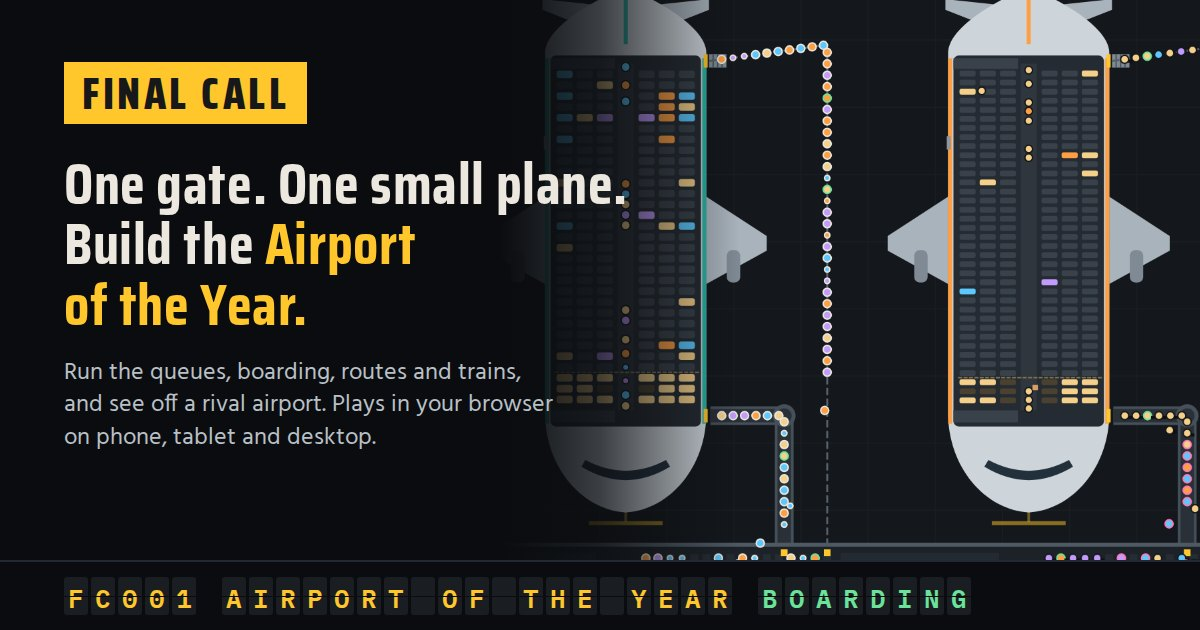
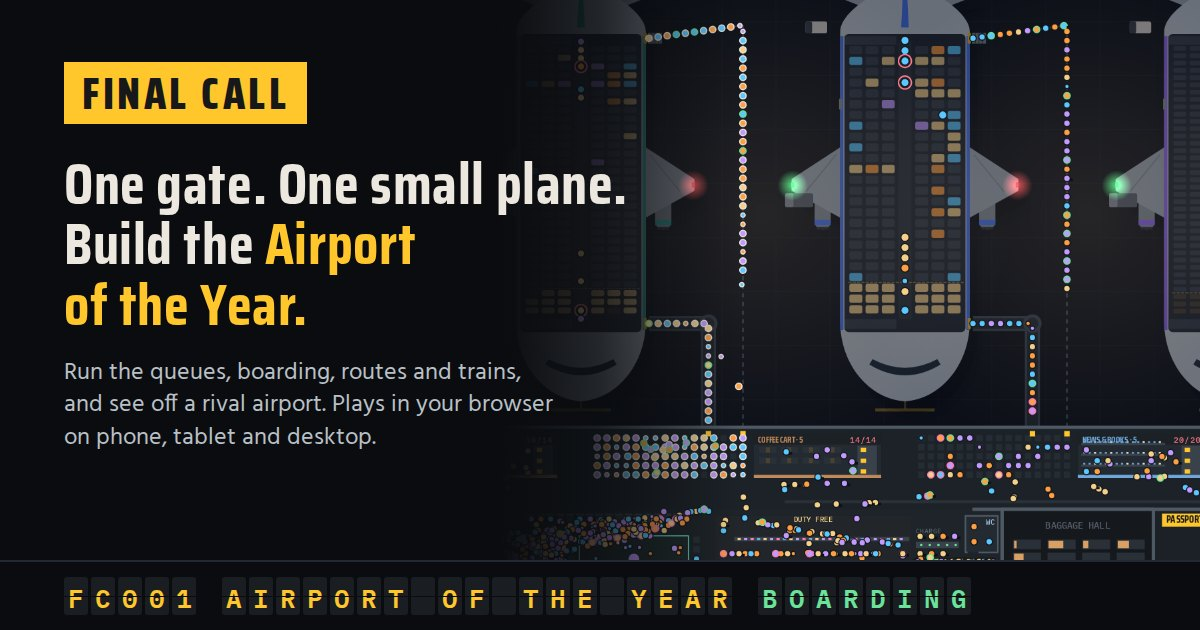
Move the roof fade so the starting zoom is clear
The terminal roofs used to fade out between 0.9x and 1.3x camera zoom,
so at the airport view's starting 1x zoom they stayed about 75% opaque
and hid the halls and passengers. Move ROOF_Z to 0.6-0.95x, the
owner's choice on #51, so roofs are gone at the starting zoom and only
show once you zoom out.

Tighten the roofs check's "gone zoomed in" case to the starting 1x
zoom itself, rather than an arbitrary point further out, so it proves
the actual issue. Update the roofs line in the real-airport spec, add
this session's brief and a look back in the lessons file, and refresh
the link preview image, which is taken at the same starting zoom.

Changed region(s): [[0.4625, 0.0, 1.0, 0.9048], [0.4625, 0.3921, 0.4933, 0.4222]]

diff --git a/src/game/53-roofs.js b/src/game/53-roofs.js
@@ -3,7 +3,7 @@
 // reads as buildings. Between ROOF_Z[0] and ROOF_Z[1] camera zoom the roofs fade away to show the halls and passengers.
 // Rooms not built yet (a second phase before Pier B, the hotel before it's bought) have no roof. Drawing only: the roofs
 // follow ROOMS and roomOn() and change nothing; taps go through them as before (tapAt).
-const ROOF_Z=[0.9,1.3];
+const ROOF_Z=[0.6,0.95];
 const roofFade=z=>clamp((ROOF_Z[1]-z)/(ROOF_Z[1]-ROOF_Z[0]),0,1); // 1 zoomed out, 0 zoomed in
 let ROOF=null; // the current plan: {key, rooms:[{x0,y0,x1,y1,path,edge,sky:[…],plant:[…]}]}
 // a roof's parts in the room's own frame, along its longest wall: skylight strips down the middle and plant along one side,

diff --git a/docs/briefs/roofs-clear.md b/docs/briefs/roofs-clear.md
@@ -1,0 +1,54 @@
+# Brief: Clear roofs at the starting zoom
+
+## Goal and what it may touch
+
+- The owner answered #51 on 27 Sep 2026: roofs should be clear at the default zoom. Move the roof fade from 0.9–1.3× to about 0.6–0.95× camera zoom, so the view players start in (1×) shows the halls and passengers, and roofs only show when zoomed out. Branch `feature/roofs-clear` from `main`, one PR, which closes #51.
+- Files it may touch:
+  - `src/game/53-roofs.js` (`ROOF_Z` and anything that depends on it);
+  - `tools/checks/roofs.mjs` (its zoom levels, so "drawn zoomed out" and "gone zoomed in" still test either side of the new fade);
+  - the fade range in `docs/SYSTEMS.md` (the Roofs bullet) and `docs/specs/real-airport.md` (the Roofs line, noting the owner's choice on #51);
+  - this brief as `docs/briefs/roofs-clear.md`, and a look back in `docs/LESSONS.md`.
+- Anything else is outside the brief. Drawing only: no saved fields, no `rnd()`, and `PLAY` unchanged.
+- Check the phone view: phones may open at a different zoom from 1×. Make sure the starting view is clear there too, or pick the fade so it is (the safer reading of "clear at the default zoom").
+
+## Read first
+
+- The project notes, then `node tools/graph.mjs roofFade` and `node tools/graph.mjs 53-roofs.js`, and only what they list.
+- Issue #51 and its comments, and the Roofs bullet in `docs/SYSTEMS.md`.
+
+## Speed budget
+
+None to speak of: a constant change. Roofs drawn at fewer zooms can only cost less. Run `npm run check -- scene` once to confirm.
+
+## Commit author
+
+KyleLookingAround <KyleMck10@hotmail.com> (the session-start hook sets it; check `git config user.email`).
+
+## Who merges and when
+
+- Don't touch `docs/SYSTEMS.md` until the markings part (#53) has merged: it is resolving a conflict in that file now. If #53 is still open when the code and check are ready, open the PR anyway and merge `main` in once #53 has merged.
+- Then squash-merge the PR yourself once checks are green, confirm the Pages publish and close #51.
+- Screenshots at phone (390×844), tablet (768×1024) and desktop (1440×900), at the starting zoom and zoomed out, by day and at night, looked at before opening.
+- The PR description has no "Generated by" footer or session link; remove any the tools add.
+
+## What's left for others
+
+- Don't touch the other real-airport PRs (#53 markings, #61 weather) or start other sessions.
+- After the real airport merges, each in its own fresh session:
+  - the session that brings the parts together;
+  - the second half of faster CI (experiment [B]);
+  - "The terminal as a place" (spec approved on #48): its checks-first PR, then its parts;
+  - then the rest of `docs/ROADMAP.md`.
+- A release is the owner's call. Routine jobs go to the cheaper model (experiment [C]).
+
+## When to stop and ask
+
+- Only for something irreversible or outside this brief.
+- Otherwise, if it truly needs the owner: open an issue labelled `needs-owner` with the question and the option it will take by default, carry on with other work, look at the issue at each stopping point, and take the default after 12 hours with no answer. Say so in the PR.
+- Where it's merely unclear, take the safer option (easier to undo, or changing the game less) and say so in the PR.
+
+## Cost budget
+
+- Estimate: about $3 (one constant, one check, two doc lines, screenshots, one CI round).
+- At each stopping point (a PR opened, CI back, a merge), read `get_session`: `usage.cost_usd` against the estimate (a 0 means not yet known, not free), and `rate_limit_info`. If status is "rejected" or `isUsingOverage` is true, schedule a `send_later` for a minute after `resetsAt` and end the turn.
+- Past twice the estimate: say why in the PR and in `docs/LESSONS.md`, and trim or split what's left.

diff --git a/docs/LESSONS.md b/docs/LESSONS.md
@@ -2,6 +2,15 @@
 
 After a PR merges, look back at the session that built it: what it cost, what slowed it, and what would have saved time or credits (the `steward` playbook's last step). Newest first. A lesson marked → changed something, and says where.
 
+## #51 Clear roofs at the starting zoom · 27 Sep 2026
+
+- **Numbers:** session `session_01DNpd2NAxxaMbr4nBX4SbvS`, estimate $3: `usage.cost_usd` still missing from `get_session` at the first stopping point (the pattern the game logic ideas session hit already), rate limit status stayed `allowed` throughout. Created 13:18, code plus checks plus screenshots plus the preview image done by 13:26.
+- **Lessons:**
+  - The owner's answer to #51 was already sitting on the issue as a comment by the time this session read it, so no `needs-owner` issue or wait was needed — reading the issue's own comments first (not just its body) before assuming a question is still open is worth doing every time.
+  - The starting camera zoom (`R.cam.z`, default `1`) isn't saved and isn't touched anywhere on the normal boot path into the airport view, so "clear at the default zoom" only needed proving for one number, not per device; the one path that sets a different starting zoom (`resize()`'s first-run branch) only fires for a view other than `airport` and only zooms further out, which is the safe direction already. Worth a line in `docs/SYSTEMS.md` if roofs come up again, so the next session doesn't re-derive it.
+  - The `roofs` check's "gone zoomed in" case used to zoom to 1.6× just to clear the old fade's top end with margin; moving it to exactly 1× turned the same assertion into a direct test of the issue itself (roofs gone at the real starting zoom) rather than an arbitrary point further out. → No playbook change, just a reminder that a check's test points are worth re-picking against what they're actually proving, not just re-validating against a moved constant.
+  - `npm run preview`'s screenshot is taken at the airport view's default zoom, so this change altered it for real (halls and colour visible where a grey roof panel was); the earlier lesson about only committing the regenerated image after a visible change applied cleanly here.
+
 ## Game logic ideas · 27 Sep 2026
 
 - **Numbers:** session `session_01DdCEFGD4zwqgzUBqSVLz86`, estimate $8: $3.01 and 186k of 1M context at the first merge attempt (`usage.cost_usd` was missing from `get_session` when the PR opened). Created 12:20; the three bot runs on `main` ran in the background while the code was read, and took about 12 minutes side by side. Docs only, so no Balance run.

diff --git a/docs/specs/real-airport.md b/docs/specs/real-airport.md
@@ -10,7 +10,7 @@ The airport looks like a real one seen from above, not a diagram: painted apron 
 
 - **Apron markings.** Yellow lead-in lines curving onto each stand, stop bars and stand numbers painted on the ground, red safety lines round each stand, taxiway centre lines with blue edge lights, runway threshold and aiming-point markings.
 - **Day and night.** A dawn and dusk colour grade (warm, then blue) on top of today's darkness curve; floodlight masts on the apron that light up at dusk; lit windows in the terminal; runway and taxiway edge lights; planes' navigation and beacon lights at night.
-- **Roofs.** Zoomed out, the terminal and its piers have roofs (with plant, skylights and the layout's own shape), so the airport reads as buildings. Zooming in, they fade away between about 0.9× and 1.3× zoom to show the halls and passengers inside. Hidden rooms (not yet built) have no roof.
+- **Roofs.** Zoomed out, the terminal and its piers have roofs (with plant, skylights and the layout's own shape), so the airport reads as buildings. Zooming in, they fade away between about 0.6× and 0.95× zoom to show the halls and passengers inside, clear at the airport view's 1× starting zoom (owner's choice, #51). Hidden rooms (not yet built) have no roof.
 - **Better planes.** Engines under the wings, a shadow on the apron, the airline's colour on the tail and engines, wingtip lights at night; the same on the runway's small planes.
 - **Weather you can see.** Rain streaks and puddles that shine under the lights, snow that settles on the apron and grass and is cleared from stands, fog banks, cloud shadows drifting over, and a windsock.
 - **Vehicles on the apron.** A tug at pushback, a fuel truck, a catering truck and baggage tractors with carts at each turnaround, driving between the stand and the service road. They come from what the stand is doing, not from new rules.
